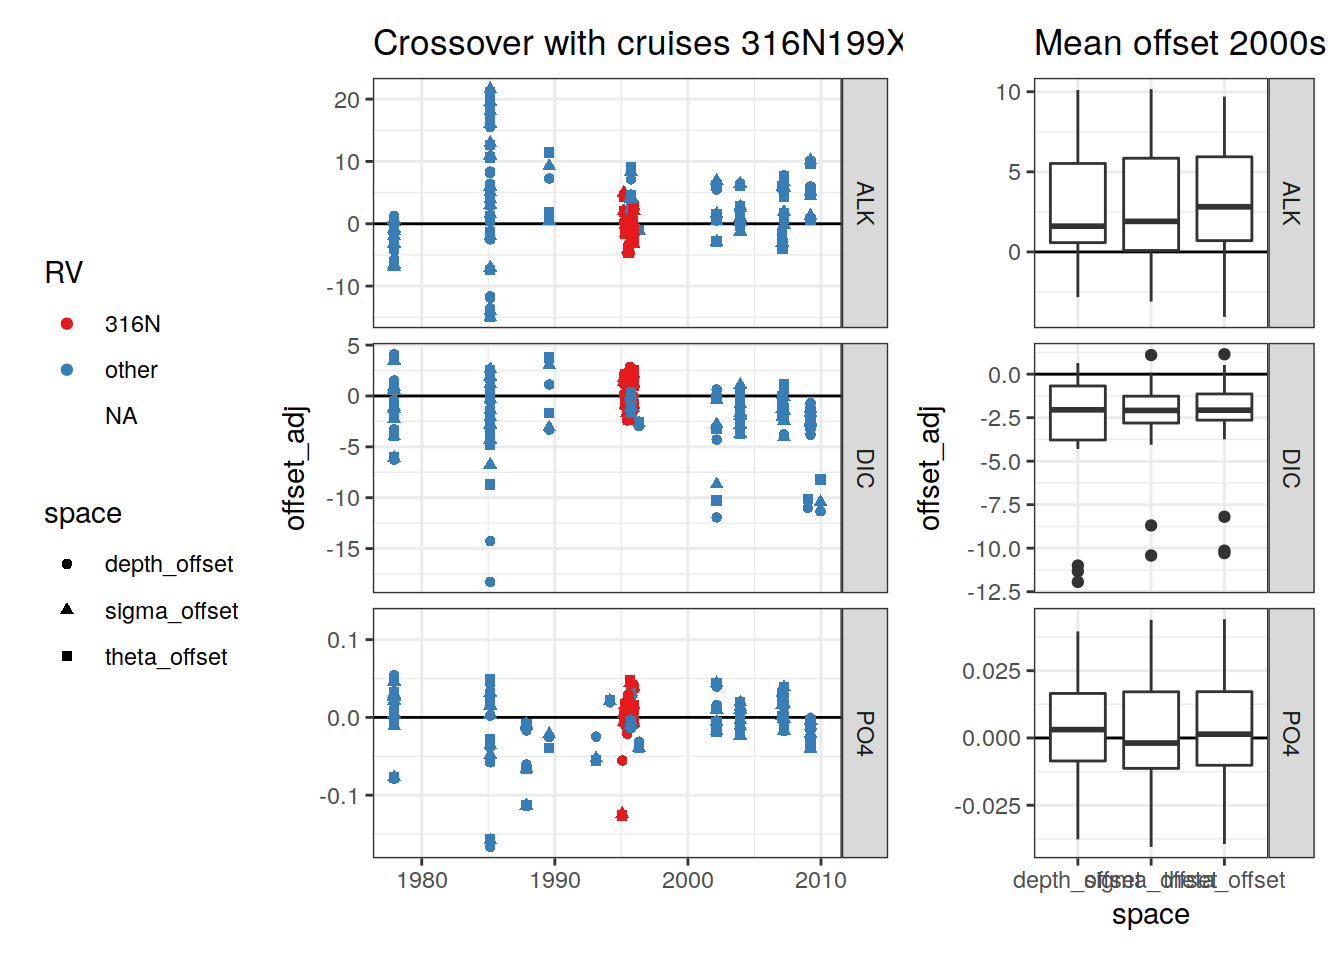
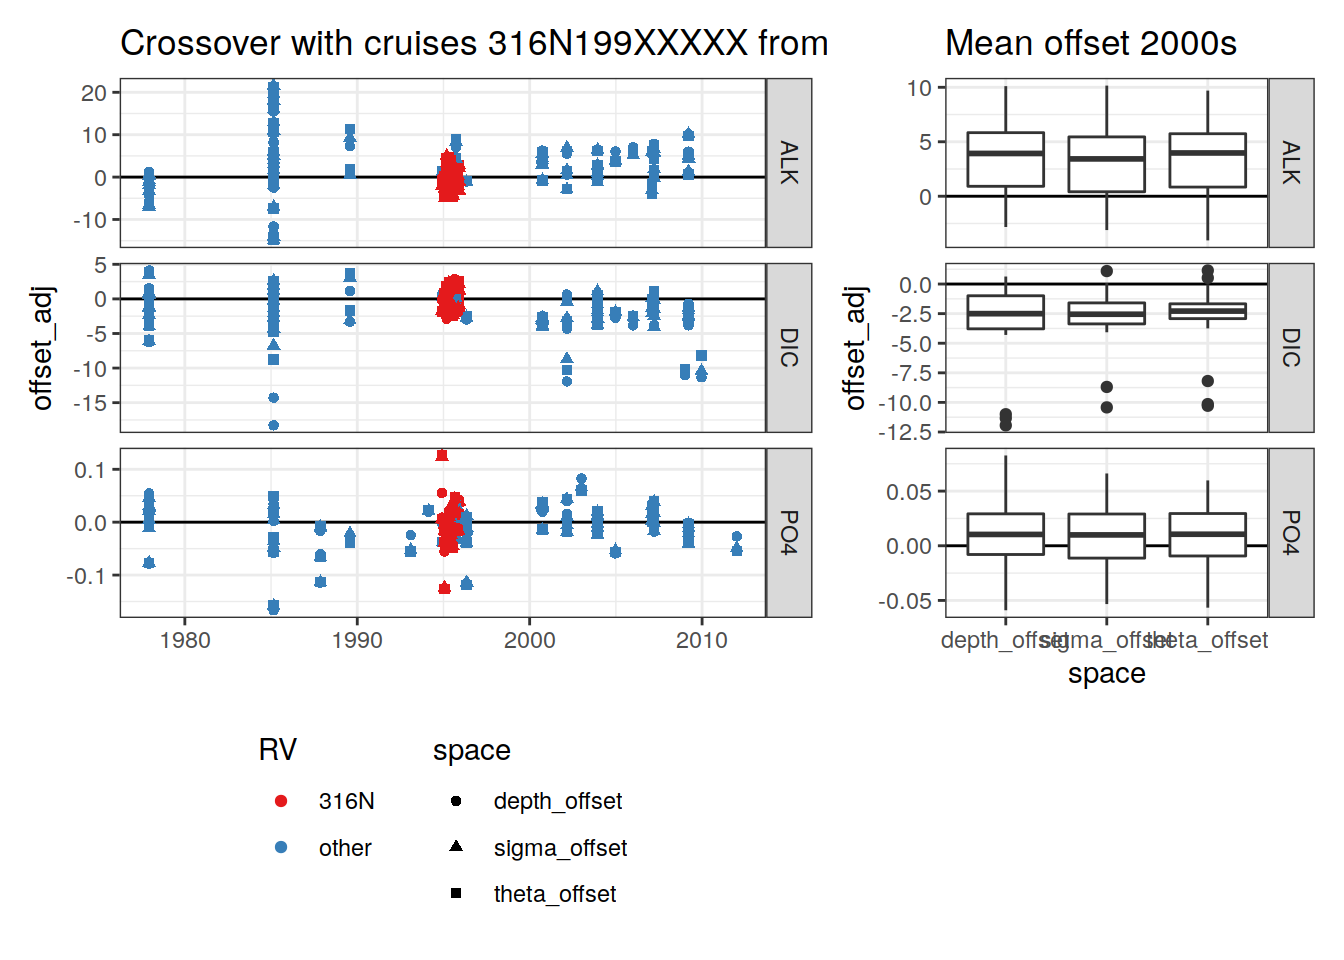
Build site.

diff --git a/docs/eMLR_data_preparation.html b/docs/eMLR_data_preparation.html
@@ -577,16 +577,16 @@ This reproducible <a href="http://rmarkdown.rstudio.com">R Markdown</a> analysis
 <div class="panel panel-default">
 <div class="panel-heading">
 <p class="panel-title">
-<a data-toggle="collapse" data-parent="#workflowr-checks" href="#strongRepositoryversionstrongahrefhttpsgithubcomjensdanielmuelleremlrobsvXXXtree68458f91bf760e12bc49e1156b4470baa0d41094targetblank68458f9a"> <span class="glyphicon glyphicon-ok text-success" aria-hidden="true"></span> <strong>Repository version:</strong> <a href="https://github.com/jens-daniel-mueller/emlr_obs_v_XXX/tree/68458f91bf760e12bc49e1156b4470baa0d41094" target="_blank">68458f9</a> </a>
+<a data-toggle="collapse" data-parent="#workflowr-checks" href="#strongRepositoryversionstrongahrefhttpsgithubcomjensdanielmuelleremlrobsvXXXtreec9725205ea7c2794876ee58cda81b6cee71b8643targetblankc972520a"> <span class="glyphicon glyphicon-ok text-success" aria-hidden="true"></span> <strong>Repository version:</strong> <a href="https://github.com/jens-daniel-mueller/emlr_obs_v_XXX/tree/c9725205ea7c2794876ee58cda81b6cee71b8643" target="_blank">c972520</a> </a>
 </p>
 </div>
[2 lines of base64/hex data omitted]
 <div class="panel-body">
 <p>
 Great! You are using Git for version control. Tracking code development and connecting the code version to the results is critical for reproducibility.
 </p>
 <p>
-The results in this page were generated with repository version <a href="https://github.com/jens-daniel-mueller/emlr_obs_v_XXX/tree/68458f91bf760e12bc49e1156b4470baa0d41094" target="_blank">68458f9</a>. See the <em>Past versions</em> tab to see a history of the changes made to the R Markdown and HTML files.
+The results in this page were generated with repository version <a href="https://github.com/jens-daniel-mueller/emlr_obs_v_XXX/tree/c9725205ea7c2794876ee58cda81b6cee71b8643" target="_blank">c972520</a>. See the <em>Past versions</em> tab to see a history of the changes made to the R Markdown and HTML files.
 </p>
 <p>
 Note that you need to be careful to ensure that all relevant files for the analysis have been committed to Git prior to generating the results (you can use <code>wflow_publish</code> or <code>wflow_git_commit</code>). workflowr only checks the R Markdown file, but you know if there are other scripts or data files that it depends on. Below is the status of the Git repository when the results were generated:
@@ -639,6 +639,40 @@ Message
 </tr>
 </thead>
 <tbody>
+<tr>
+<td>
+Rmd
+</td>
+<td>
+<a href="https://github.com/jens-daniel-mueller/emlr_obs_v_XXX/blob/c9725205ea7c2794876ee58cda81b6cee71b8643/analysis/eMLR_data_preparation.Rmd" target="_blank">c972520</a>
+</td>
+<td>
+jens-daniel-mueller
+</td>
+<td>
+2021-12-07
+</td>
+<td>
+applied adjustments to crossover offsets
+</td>
+</tr>
+<tr>
+<td>
+html
+</td>
+<td>
+<a href="https://rawcdn.githack.com/jens-daniel-mueller/emlr_obs_v_XXX/e7f4844105d192b17829bd03dfc983a52bbbdac2/docs/eMLR_data_preparation.html" target="_blank">e7f4844</a>
+</td>
+<td>
+jens-daniel-mueller
+</td>
+<td>
+2021-12-07
+</td>
+<td>
+Build site.
+</td>
+</tr>
 <tr>
 <td>
 Rmd
@@ -7139,7 +7173,8 @@ GLODAP_crossover_IO_1990_B_rev &lt;- GLODAP_crossover_IO_1990_B %&gt;%
          CruiseA_EXPOCODE = CruiseB_EXPOCODE,
          adjustment_A_back = adjustment_A,
          adjustment_A = adjustment_B) %&gt;% 
-  rename(adjustment_B = adjustment_A_back) %&gt;% 
+  rename(CruiseB_EXPOCODE = CruiseA_EXPOCODE_back,
+         adjustment_B = adjustment_A_back) %&gt;% 
   mutate(offset = -offset,
          offset_adj = -offset_adj)
 
@@ -7165,7 +7200,7 @@ p_crossover_ts &lt;- GLODAP_crossover_IO_1990 %&gt;%
   scale_color_brewer(palette = &quot;Set1&quot;) +
   facet_grid(parameter~., scales = &quot;free_y&quot;) +
   labs(title = &quot;Crossover with cruises 316N199XXXXX from IO&quot;) +
-  theme(legend.position = &quot;left&quot;,
+  theme(legend.position = &quot;bottom&quot;,
         axis.title.x = element_blank())
 
 p_crossover_space &lt;- GLODAP_crossover_IO_1990 %&gt;%
@@ -7201,6 +7236,17 @@ Date
 </tr>
 </thead>
 <tbody>
+<tr>
+<td>
+<a href="https://github.com/jens-daniel-mueller/emlr_obs_v_XXX/blob/e7f4844105d192b17829bd03dfc983a52bbbdac2/docs/figure/eMLR_data_preparation.Rmd/crossover_analysis_data-1.png" target="_blank">e7f4844</a>
+</td>
+<td>
+jens-daniel-mueller
+</td>
+<td>
+2021-12-07
+</td>
+</tr>
 <tr>
 <td>
 <a href="https://github.com/jens-daniel-mueller/emlr_obs_v_XXX/blob/8e82dee11095c6f913e64060b9a0b2a4a44e6204/docs/figure/eMLR_data_preparation.Rmd/crossover_analysis_data-1.png" target="_blank">8e82dee</a>
@@ -7256,7 +7302,8 @@ jens-daniel-mueller
   scale_color_brewer(palette = &quot;Set1&quot;) +
   facet_grid(parameter~., scales = &quot;free_y&quot;) +
   labs(title = &quot;Crossover with cruises 316N199XXXXX from IO&quot;) +
-  theme(legend.position = &quot;left&quot;,
+  theme(legend.position = &quot;bottom&quot;,
+        legend.direction = &quot;vertical&quot;,
         axis.title.x = element_blank())
 
 p_crossover_space_adj &lt;- GLODAP_crossover_IO_1990 %&gt;%
@@ -7292,6 +7339,17 @@ Date
 </tr>
 </thead>
 <tbody>
+<tr>
+<td>
+<a href="https://github.com/jens-daniel-mueller/emlr_obs_v_XXX/blob/e7f4844105d192b17829bd03dfc983a52bbbdac2/docs/figure/eMLR_data_preparation.Rmd/crossover_analysis_data-2.png" target="_blank">e7f4844</a>
+</td>
+<td>
+jens-daniel-mueller
+</td>
+<td>
+2021-12-07
+</td>
+</tr>
 <tr>
 <td>
 <a href="https://github.com/jens-daniel-mueller/emlr_obs_v_XXX/blob/8e82dee11095c6f913e64060b9a0b2a4a44e6204/docs/figure/eMLR_data_preparation.Rmd/crossover_analysis_data-2.png" target="_blank">8e82dee</a>
@@ -7342,6 +7400,17 @@ Date
 </tr>
 </thead>
 <tbody>
+<tr>
+<td>
+<a href="https://github.com/jens-daniel-mueller/emlr_obs_v_XXX/blob/e7f4844105d192b17829bd03dfc983a52bbbdac2/docs/figure/eMLR_data_preparation.Rmd/crossover_analysis_data-3.png" target="_blank">e7f4844</a>
+</td>
+<td>
+jens-daniel-mueller
+</td>
+<td>
+2021-12-07
+</td>
+</tr>
 <tr>
 <td>
 <a href="https://github.com/jens-daniel-mueller/emlr_obs_v_XXX/blob/8e82dee11095c6f913e64060b9a0b2a4a44e6204/docs/figure/eMLR_data_preparation.Rmd/crossover_analysis_data-3.png" target="_blank">8e82dee</a>
